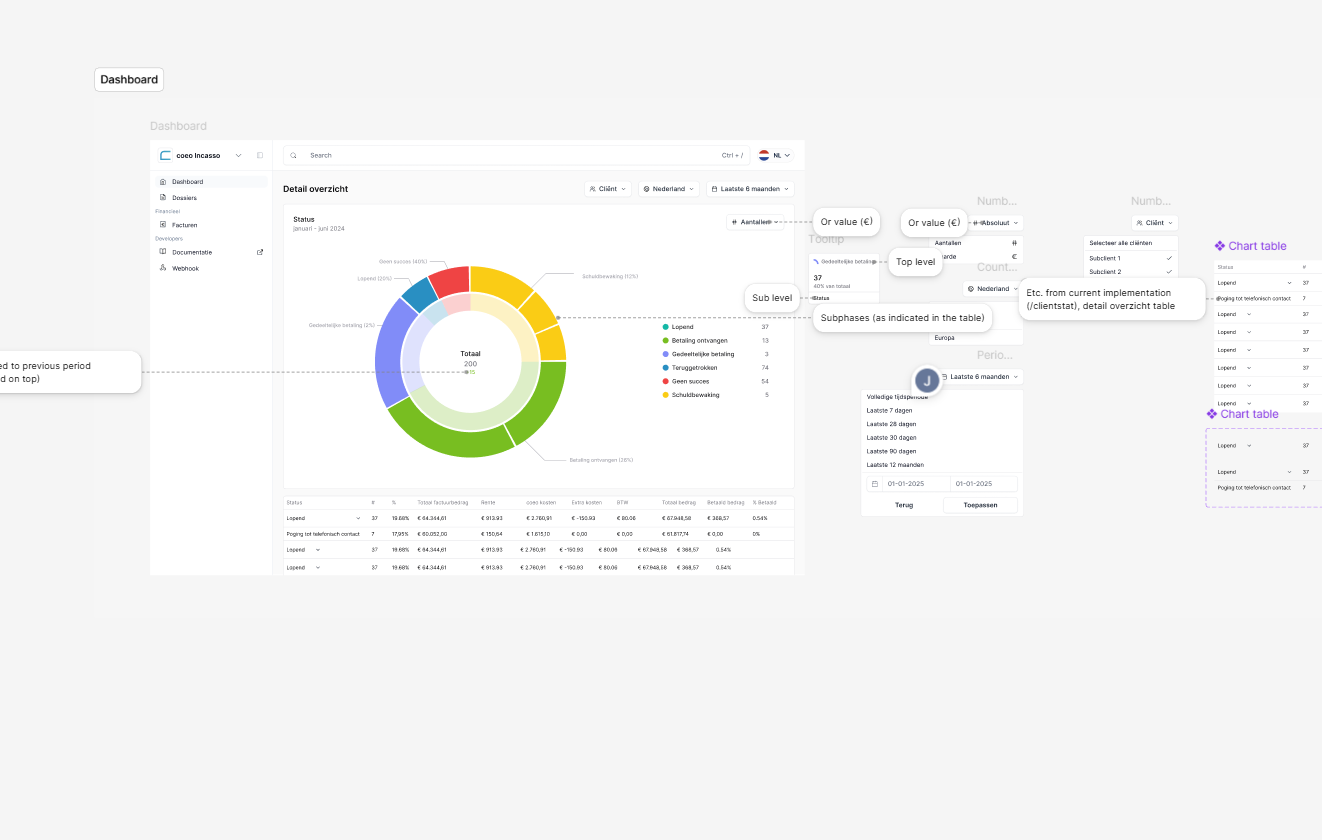
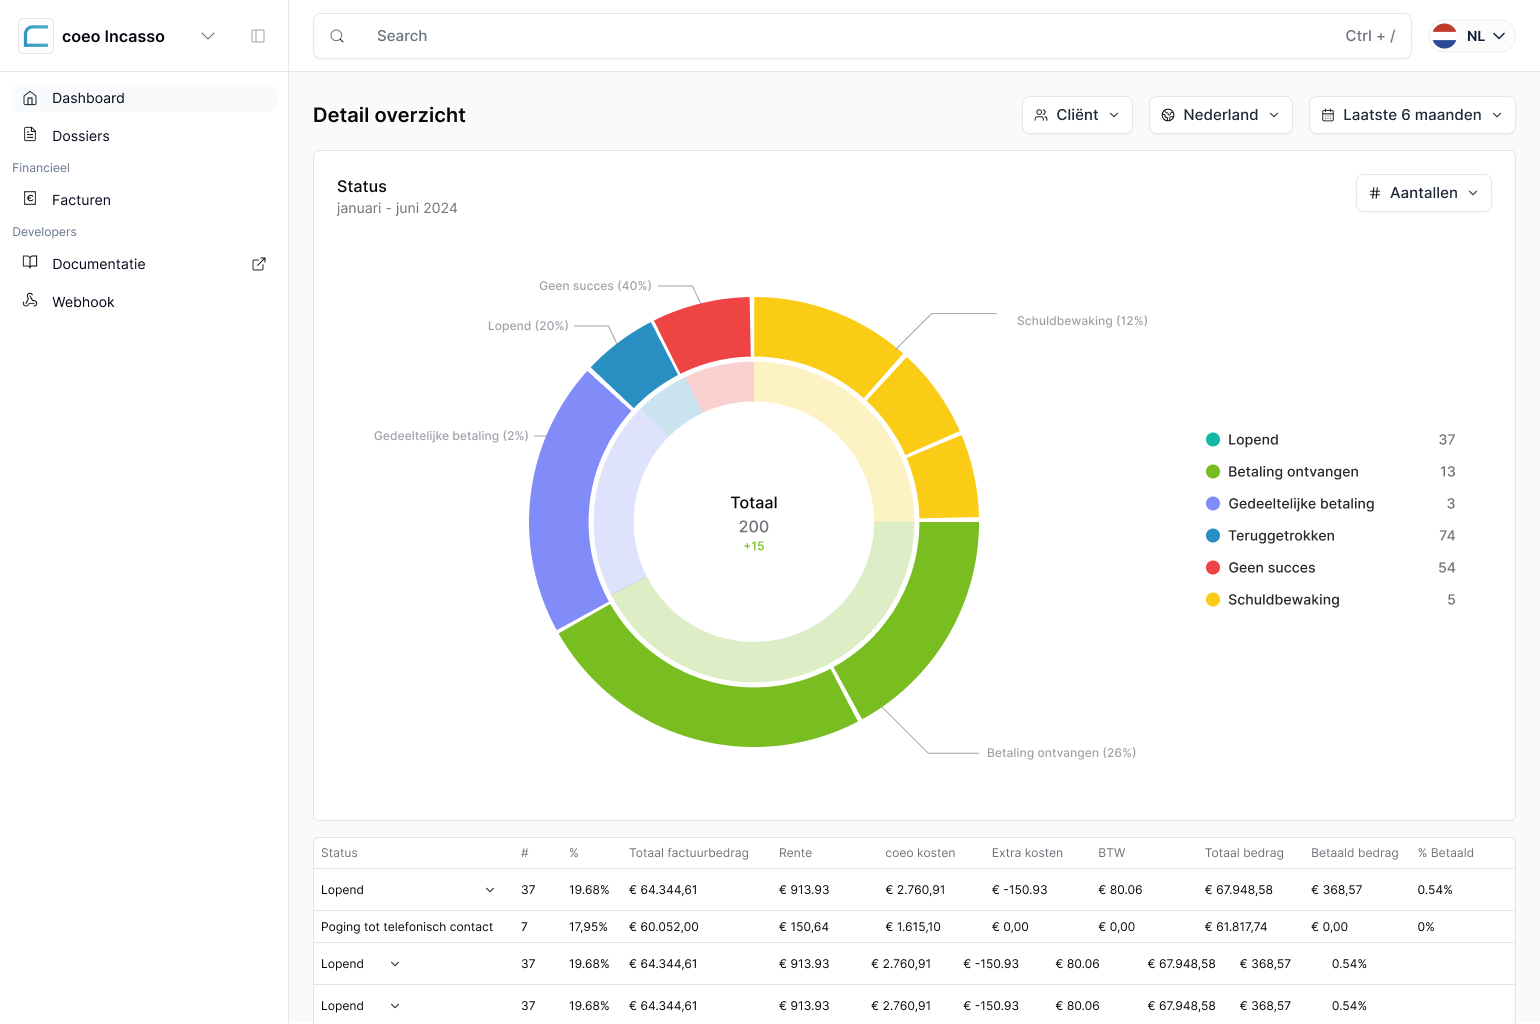
Update article on coeo

diff --git a/app/components/image/zoomable-image.tsx b/app/components/image/zoomable-image.tsx
@@ -1,17 +1,14 @@
 "use client";
-
 import Image from "next/image";
 import { useState } from "react";
 
 export default function ZoomableImage(props) {
   const [open, setOpen] = useState(false);
-
-  // Extract width and height, provide defaults if missing
-  const { width = 896, height = 504, ...imageProps } = props;
+  const { width = 896, height = 504, caption, ...imageProps } = props;
 
   return (
     <>
-      <div className="relative w-full">
+      <figure className="relative w-full m-0">
         <Image
           {...imageProps}
           width={width}
@@ -24,7 +21,13 @@ export default function ZoomableImage(props) {
           onClick={() => setOpen(true)}
           style={{ maxWidth: "100%", ...props.style }}
         />
-      </div>
+        {caption && (
+          <figcaption className="mt-2 text-sm text-slate-500 dark:text-slate-400 leading-snug">
+            {caption}
+          </figcaption>
+        )}
+      </figure>
+
       {open && (
         <div
           className="fixed inset-0 z-50 flex items-center justify-center bg-black/80 backdrop-blur-sm"
